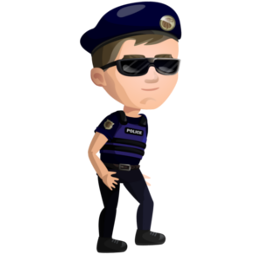
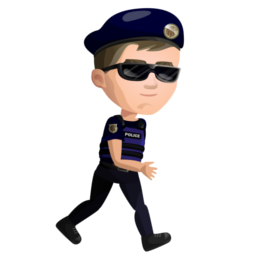
add images

Changed region(s): [[0.2188, 0.0, 0.7188, 1.0]]

diff --git a/src/Bomberman/Container.java b/src/Bomberman/Container.java
@@ -16,29 +16,42 @@ public class Container {
         try {
             globalEntityAnimations = (Map<Animation, BufferedImage[]>) Map.ofEntries(
                     entry(Animation.PLAYER_IDLE, new BufferedImage[]{
-                            ImageIO.read( new File("resources/player/Player_Idle_000.png") ) }),
+                            ImageIO.read( new File("resources/player/Player_Idle_000.png") )}),
                     entry(Animation.PLAYER_MOVE_LEFT, new BufferedImage[]{
-                            ImageIO.read( new File("resources/player/move_left/Player_MoveLeft_000.png") ) }),
+                            ImageIO.read( new File("resources/player/move_left/Player_MoveLeft_000.png") ),
+                            ImageIO.read( new File("resources/player/move_left/Player_MoveLeft_001.png") ),
+                            ImageIO.read( new File("resources/player/move_left/Player_MoveLeft_002.png") ),
+                            ImageIO.read( new File("resources/player/move_left/Player_MoveLeft_003.png") ),
+                            ImageIO.read( new File("resources/player/move_left/Player_MoveLeft_004.png") ),
+                            ImageIO.read( new File("resources/player/move_left/Player_MoveLeft_005.png") ),
+                            ImageIO.read( new File("resources/player/move_left/Player_MoveLeft_006.png") ),
+                            ImageIO.read( new File("resources/player/move_left/Player_MoveLeft_007.png") )}),
                     entry(Animation.PLAYER_MOVE_RIGHT, new BufferedImage[]{
                             ImageIO.read( new File("resources/player/move_right/Player_MoveRight_000.png") ),
                             ImageIO.read( new File("resources/player/move_right/Player_MoveRight_001.png") ),
-                            ImageIO.read( new File("resources/player/move_right/Player_MoveRight_002.png") )})
+                            ImageIO.read( new File("resources/player/move_right/Player_MoveRight_002.png") ),
+                            ImageIO.read( new File("resources/player/move_right/Player_MoveRight_003.png") ),
+                            ImageIO.read( new File("resources/player/move_right/Player_MoveRight_004.png") ),
+                            ImageIO.read( new File("resources/player/move_right/Player_MoveRight_005.png") ),
+                            ImageIO.read( new File("resources/player/move_right/Player_MoveRight_006.png") ),
+                            ImageIO.read( new File("resources/player/move_right/Player_MoveRight_007.png") )})
             );
         }catch(IOException e){
-
+            System.out.println(e.toString());
         }
     }
 
     private int timeToNextImage; // Number of ms to go the next image
     private long lastAnimationTime;
     private BufferedImage animation[];
-    boolean continueAnim = false;
+    boolean continueAnim;
     private int index;
 
 
     public Container(){
         index = 0;
         lastAnimationTime = 0;
+        continueAnim = false;
     }
 
     // Set the duration for displaying one image of the animation
@@ -52,7 +65,13 @@ public class Container {
 
     // Select the animation to apply to the entity's container
     public void setAnimation(Animation animType){
+        if(globalEntityAnimations.isEmpty()){
+            System.out.println("pas vide");
+        }else{
+            System.out.println("vide");
+        }
         animation = globalEntityAnimations.get(animType).clone();
+
     }
 
     // Get the next image of the animation

diff --git a/src/Bomberman/EntityManager/Player.java b/src/Bomberman/EntityManager/Player.java
@@ -1,11 +1,17 @@
 package Bomberman.EntityManager;
 
-import Bomberman.*;
+import Bomberman.Animation;
+import Bomberman.Direction;
+import Bomberman.Main;
+import Bomberman.Randomator;
+import Bomberman.Tile;
 
 import java.awt.Point;
 import java.awt.event.KeyEvent;
 import java.awt.event.KeyListener;
 import java.util.concurrent.atomic.AtomicBoolean;
+
+import static Bomberman.Animation.*;
 
 
 public class Player extends MovingEntity implements KeyListener
@@ -24,9 +30,11 @@ public class Player extends MovingEntity implements KeyListener
         directionMovement= Direction.IDLE.getDirection();
         futureDirection=Direction.IDLE.getDirection();
 
-        container.setAnimation(Animation.PLAYER_IDLE);
+        container.setAnimation(PLAYER_IDLE);
+
         // Set duration of the animation based on the movement of the entity
         container.setDuration(moveDuration);
+
     }
 
 
@@ -143,7 +151,7 @@ public class Player extends MovingEntity implements KeyListener
             case KeyEvent.VK_DOWN:
                 // When we release a key, we return to the idle state (direction + animation)
                 futureDirection=Direction.IDLE.getDirection();
-                container.setAnimation(Animation.PLAYER_IDLE);
+                container.setAnimation(PLAYER_IDLE);
         }
     }
 }
